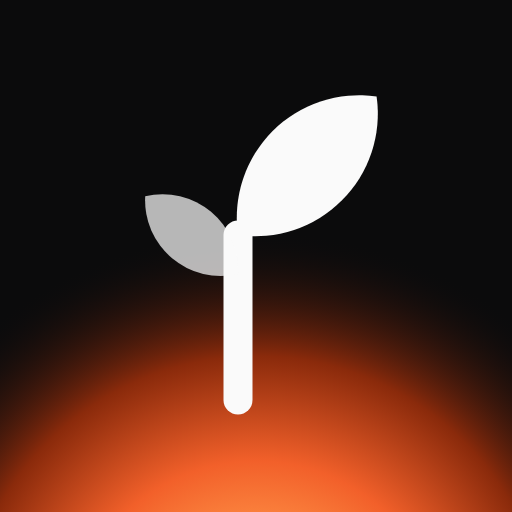
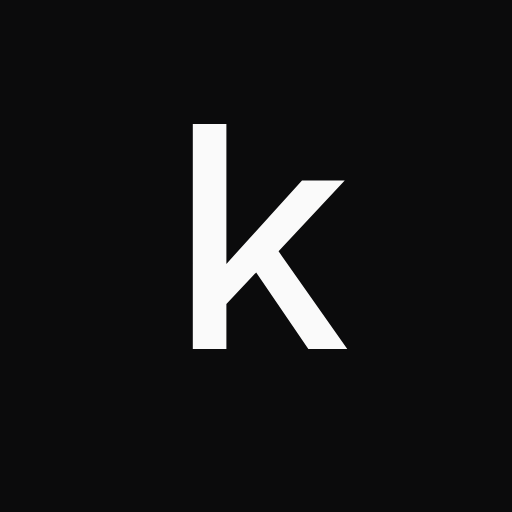
Nueva marca: keystone
- Logotipo solo tipográfico en minúsculas, ícono con la inicial
- Nombre keystone en la app, el ícono, la pantalla de carga y las notificaciones

Claude-Session: https://claude.ai/code/session_019fKwodT56SD4Lnbmy8s9MJ

diff --git a/index.html b/index.html
@@ -3,13 +3,13 @@
 <head>
 <meta charset="utf-8">
 <meta name="viewport" content="width=device-width, initial-scale=1, viewport-fit=cover, user-scalable=no">
-<title>sprout</title>
+<title>keystone</title>
 <meta name="description" content="Entrenamiento, comida, hábitos y perfil de salud en un solo lugar.">
 <meta name="theme-color" content="#FFFFFF">
 <meta name="apple-mobile-web-app-capable" content="yes">
 <meta name="mobile-web-app-capable" content="yes">
 <meta name="apple-mobile-web-app-status-bar-style" content="black-translucent">
-<meta name="apple-mobile-web-app-title" content="sprout">
+<meta name="apple-mobile-web-app-title" content="keystone">
 <link rel="manifest" href="manifest.webmanifest">
 <link rel="icon" type="image/png" sizes="192x192" href="icons/icon-192.png">
 <link rel="apple-touch-icon" href="icons/apple-touch-icon.png">
@@ -48,13 +48,7 @@ input:focus-visible,button:focus-visible,textarea:focus-visible{outline:2px soli
 <div style="width: 100%; max-width: 640px; margin: 0 auto; height: 100%; position: relative; overflow: hidden; background: {{ th.bg }}; color: {{ th.text }}; font-family: {{ font }}; -webkit-font-smoothing: antialiased; letter-spacing: -0.01em">
 <sc-if value="{{ showInicio }}" hint-placeholder-val="{{ false }}">
 <div id="sc-showInicio" class="scroll" style="position: absolute; inset: 0; overflow-y: auto; box-sizing: border-box; padding: calc(env(safe-area-inset-top) + 44px) 16px 210px; display: flex; flex-direction: column; gap: 14px">
-<header style="display: flex; align-items: flex-end; justify-content: space-between; gap: 12px; padding: 0 4px 4px">
-<div style="display: flex; flex-direction: column; gap: 8px; min-width: 0">
-<span style="font-family: {{ mono }}; font-size: 11px; line-height: 14px; letter-spacing: 0.08em; text-transform: uppercase; color: {{ th.sub }}; color: {{ th.sub }}">{{ dateLabel }}</span>
-<h1 style="margin: 0; font-size: 34px; line-height: 38px; font-weight: 500; letter-spacing: -0.04em">{{ greeting }}</h1>
-</div>
-<button type="button" onClick="{{ openMenu }}" aria-label="Perfil y apariencia" style="appearance: none; border: 0; margin: 0; font: inherit; cursor: pointer; padding: 0; width: 40px; height: 40px; flex: none; border-radius: 50%; background: {{ th.fill }}; color: {{ th.text }}; display: flex; align-items: center; justify-content: center; font-size: 15px; font-weight: 500">{{ initial }}</button>
-</header>
+<header style="display: flex; flex-direction: column; gap: 22px; padding: 0 4px 4px"><div style="display: flex; align-items: center; justify-content: space-between; gap: 12px"><span style="font-size: 22px; font-weight: 500; letter-spacing: -0.055em">keystone</span><button type="button" onClick="{{ openMenu }}" aria-label="Perfil y apariencia" style="appearance: none; border: 0; margin: 0; font: inherit; cursor: pointer; padding: 0; width: 40px; height: 40px; flex: none; border-radius: 50%; background: {{ th.fill }}; color: {{ th.text }}; display: flex; align-items: center; justify-content: center; font-size: 15px; font-weight: 500">{{ initial }}</button></div><div style="display: flex; flex-direction: column; gap: 8px"><span style="font-family: {{ mono }}; font-size: 11px; line-height: 14px; letter-spacing: 0.08em; text-transform: uppercase; color: {{ th.sub }}; color: {{ th.sub }}">{{ dateLabel }}</span><h1 style="margin: 0; font-size: 34px; line-height: 38px; font-weight: 500; letter-spacing: -0.04em">{{ greeting }}</h1></div></header>
 <sc-if value="{{ showBackupNudge }}" hint-placeholder-val="{{ false }}">
 <section aria-label="Respaldo" style="background: {{ th.card }}; border-radius: 22px; padding: 16px 18px; display: flex; flex-direction: column; gap: 12px">
 <span style="display: flex; flex-direction: column; gap: 3px"><span style="font-size: 16px; font-weight: 500">Respalda tus datos</span><span style="font-size: 14px; line-height: 20px; color: {{ th.sub }}">Guarda una copia en Archivos o iCloud Drive por si cambias de teléfono.</span></span>
@@ -914,7 +908,7 @@ Más</span>
 <label style="position: relative; display: flex; align-items: center; min-height: 52px; font-size: 16px; cursor: pointer; border-top: 0.5px solid {{ th.sep }}">Restaurar respaldo
 <input type="file" accept=".json,application/json" onChange="{{ importBackup }}" style="position: absolute; inset: 0; width: 100%; height: 100%; opacity: 0; cursor: pointer"></label>
 <button type="button" onClick="{{ resetAll }}" style="appearance: none; border: 0; margin: 0; font: inherit; cursor: pointer; width: 100%; min-height: 52px; padding: 0; background: transparent; color: {{ th.danger }}; font-size: 16px; text-align: left; font-weight: {{ resetWeight }}; border-top: 0.5px solid {{ th.sep }}">{{ resetLabel }}</button></div><p style="margin: 0; padding: 0 4px; font-size: 13px; line-height: 18px; color: {{ th.sub }}">Todo se guarda solo en este teléfono, en dos copias. El respaldo no incluye las fotos ni tu clave de IA.</p></section>
-<div aria-label="sprout" style="display: flex; flex-direction: column; align-items: center; gap: 8px; padding: 8px 0 4px"><div style="display: flex; align-items: center; gap: 6px"><svg viewBox="250 150 560 690" width="24.3" height="30" aria-hidden="true" style="display: block; flex: none"><g transform="translate(-36 0)"><path d="M512 470 V800" stroke="{{ brand.st }}" stroke-width="58" stroke-linecap="round"></path><path d="M512.0 548.0 A151.4 151.4 0 0 1 326.4 392.3 A151.4 151.4 0 0 1 512.0 548.0 Z" fill="{{ brand.l1 }}"></path><path d="M512.0 470.0 A245.0 245.0 0 0 1 789.2 192.8 A245.0 245.0 0 0 1 512.0 470.0 Z" fill="{{ brand.l2 }}"></path></g></svg><span style="font-size: 26px; font-weight: 500; letter-spacing: -0.06em">sprout</span></div><span style="font-family: {{ mono }}; font-size: 11px; letter-spacing: 0.08em; color: {{ th.tertiary }}">HECHA PARA {{ prefs.nombre }}</span></div>
+<div aria-label="keystone" style="display: flex; flex-direction: column; align-items: center; gap: 8px; padding: 8px 0 4px"><span style="font-size: 28px; font-weight: 500; letter-spacing: -0.055em">keystone</span><span style="font-family: {{ mono }}; font-size: 11px; letter-spacing: 0.08em; color: {{ th.tertiary }}">HECHA PARA {{ prefs.nombre }}</span></div>
 </div>
 </sc-if>
 
@@ -1648,13 +1642,13 @@ class Component extends DCLogic {
 
   exportBackup() {
     this.sfx('tap');
-    const name = 'rutina-respaldo-' + this.keyOf(new Date()) + '.json';
+    const name = 'keystone-respaldo-' + this.keyOf(new Date()) + '.json';
     const json = JSON.stringify({ app: 'rutina', version: 1, exportedAt: new Date().toISOString(), data: this.backupData() });
     const done = () => { this.setPref('lastBackup', Date.now()); this.setState({ backupMsg: 'Respaldo guardado. Guárdalo en Archivos o iCloud Drive.' }); };
     try {
       const file = new File([json], name, { type: 'application/json' });
       if (navigator.canShare && navigator.canShare({ files: [file] })) {
-        navigator.share({ files: [file], title: 'Respaldo de sprout' }).then(done).catch(() => {});
+        navigator.share({ files: [file], title: 'Respaldo de keystone' }).then(done).catch(() => {});
         return;
       }
     } catch (e) {}
@@ -1681,7 +1675,7 @@ class Component extends DCLogic {
         this.setState({ backupMsg: 'Respaldo restaurado: ' + n + (n === 1 ? ' sesión.' : ' sesiones.') });
         this.sfx('yes');
       });
-    }).catch(() => { this.setState({ backupMsg: 'Ese archivo no es un respaldo de sprout.' }); this.sfx('no'); });
+    }).catch(() => { this.setState({ backupMsg: 'Ese archivo no es un respaldo de keystone.' }); this.sfx('no'); });
     try { input.value = ''; } catch (err) {}
   }
 
@@ -2740,7 +2734,7 @@ class Component extends DCLogic {
     try { perm = await Notification.requestPermission(); } catch (e) {}
     this.sfx('tap');
     if (perm !== 'granted') {
-      this.setState({ pushMsg: 'Sin permiso. Actívalo en Ajustes del iPhone, Notificaciones, sprout.' });
+      this.setState({ pushMsg: 'Sin permiso. Actívalo en Ajustes del iPhone, Notificaciones, keystone.' });
       return;
     }
     try {

diff --git a/sw.js b/sw.js
@@ -1,5 +1,5 @@
 // Funciona sin conexión: guarda la app en el teléfono y la actualiza cuando hay internet.
-const CACHE = 'rutina-v8';
+const CACHE = 'rutina-v9';
 const FILES = ["./", "index.html", "manifest.webmanifest", "vendor/morphdom-umd.min.js", "fonts/Geist-Variable.woff2", "fonts/GeistMono-Variable.woff2", "img/angeles.svg", "img/balanceo_pierna.svg", "img/bird_dog.svg", "img/boxeo.svg", "img/chin_tuck.svg", "img/circulos_brazos.svg", "img/circulos_cadera.svg", "img/crunch_invertido.svg", "img/curl.svg", "img/curl_martillo.svg", "img/deadbug.svg", "img/elev_piernas.svg", "img/escalador.svg", "img/escapular_pared.svg", "img/esfinge.svg", "img/flex_pica.svg", "img/flex_rodillas.svg", "img/flex_suelo.svg", "img/flexor_cadera.svg", "img/fondo_suelo.svg", "img/gato_vaca.svg", "img/hollow.svg", "img/jalon_suelo.svg", "img/laterales.svg", "img/marcha.svg", "img/pecho_marco.svg", "img/plancha.svg", "img/plancha_lateral.svg", "img/pm_rumano.svg", "img/puente.svg", "img/puente_isquios.svg", "img/puente_una2.svg", "img/remo_marco.svg", "img/sentadilla.svg", "img/sentadilla_pared.svg", "img/sentadilla_talones.svg", "img/sumo.svg", "img/talones_suelo.svg", "img/triceps.svg", "img/ytw.svg", "img/zancada_atras.svg", "img/zancada_estatica.svg", "icons/apple-touch-icon.png", "icons/icon-192.png", "icons/icon-512.png", "icons/icon-maskable-512.png", "icons/splash-1170x2532.png"];
 self.addEventListener('install', (e) => {
   e.waitUntil(caches.open(CACHE).then((c) => c.addAll(FILES)).then(() => self.skipWaiting()));
@@ -49,7 +49,7 @@ async function personalizar(m) {
   return m;
 }
 self.addEventListener('push', (e) => {
-  let m = { type: 'aviso', title: 'sprout', body: 'Tienes un recordatorio.' };
+  let m = { type: 'aviso', title: 'keystone', body: 'Tienes un recordatorio.' };
   try { if (e.data) m = Object.assign(m, e.data.json()); } catch (err) {}
   e.waitUntil(personalizar(m).catch(() => m).then((n) => self.registration.showNotification(n.title, {
     body: n.body, tag: n.tag || ('rutina-' + n.type), icon: 'icons/icon-192.png', badge: 'icons/icon-192.png',

diff --git a/README.md b/README.md
@@ -1,4 +1,4 @@
-# sprout
+# keystone
 
 App web instalable para entrenamiento, comida, hábitos y salud: sesiones guiadas con ejercicios animados, registro de comidas con análisis de fotos por IA, hábitos diarios, agua, recordatorios y un perfil de salud con nota por área.
 
